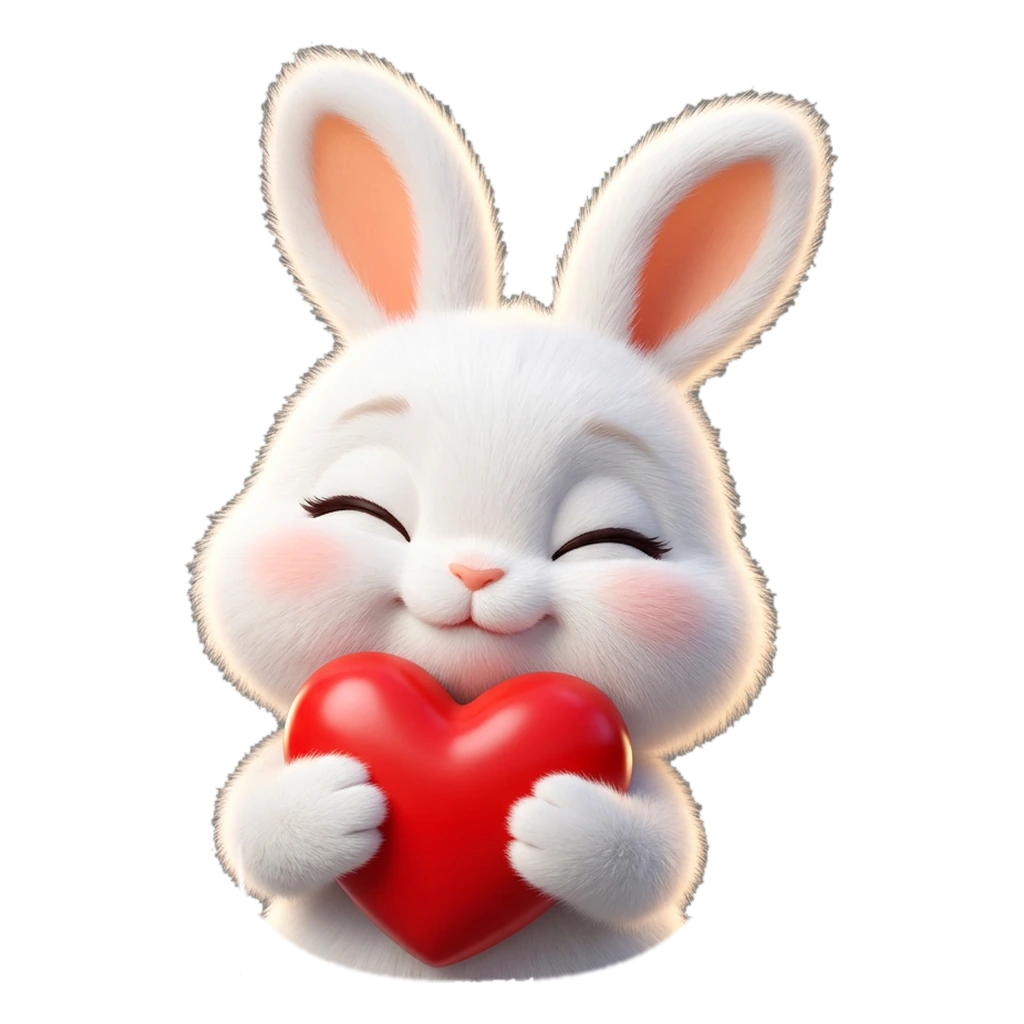
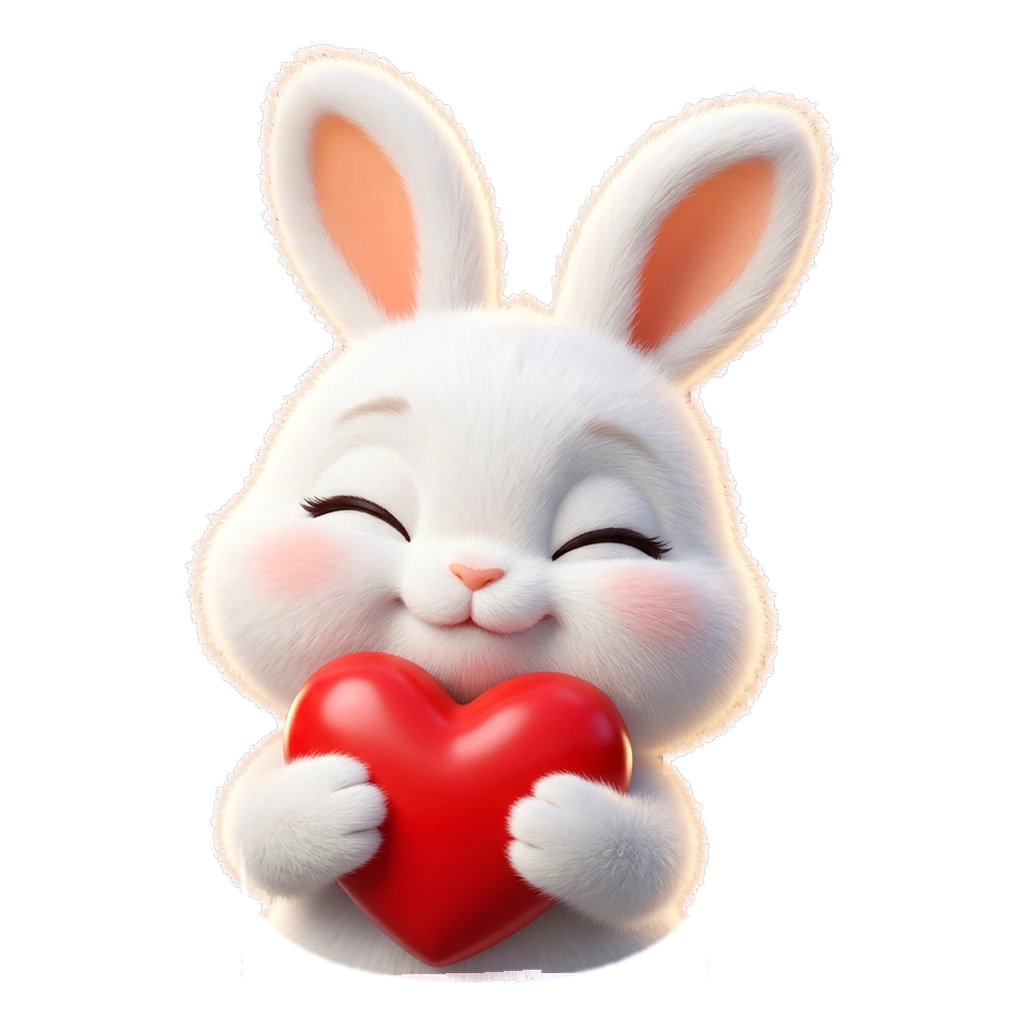
Sticker cutouts: unmix the grey background from fur edges
Claude-Session: https://claude.ai/code/session_01L59bBD8ePS3QixP9jH1RwP

diff --git a/charmbit/scripts/add-sticker.py b/charmbit/scripts/add-sticker.py
@@ -59,10 +59,37 @@ def remove_background(image: Image.Image, tolerance: int = TOLERANCE) -> Image.I
     background = ImageChops.multiply(ImageChops.multiply(red.point(lambda v: 255 if v == 255 else 0), green.point(lambda v: 255 if v == 0 else 0)), blue.point(lambda v: 255 if v == 255 else 0))
     alpha = ImageChops.invert(background)
     # Pull the edge in by a pixel to drop the background-tinted fringe, then soften it.
-    alpha = alpha.filter(ImageFilter.MinFilter(3)).filter(ImageFilter.GaussianBlur(0.8))
+    alpha = alpha.filter(ImageFilter.MinFilter(3))
     result = rgb.convert("RGBA")
-    result.putalpha(alpha)
-    return result
+    result.putalpha(alpha.filter(ImageFilter.GaussianBlur(0.8)))
+    return unmix_edge(result, alpha, key)
+
+
+def unmix_edge(image: Image.Image, solid: Image.Image, key: tuple[int, int, int]) -> Image.Image:
+    """
+    Fur and hair end in strands that are half background, which shows as a grey
+    rim on a light page. In a thin band along the outline, work out how much of
+    each pixel is background, make that part transparent, and take the
+    background colour back out of what is left. Needs NumPy; skipped without it.
+    """
+    try:
+        import numpy
+    except ImportError:
+        return image
+    band = numpy.asarray(solid) > 0
+    band &= ~(numpy.asarray(solid.filter(ImageFilter.MinFilter(15))) > 0)
+    pixels = numpy.asarray(image).astype("float32")
+    colour, alpha = pixels[..., :3], pixels[..., 3] / 255
+    back = numpy.array(key, dtype="float32")
+    # How far each pixel is from the background colour, against the brightest nearby colour.
+    away = numpy.abs(colour - back).max(axis=2)
+    full = max(60.0, float(numpy.percentile(away[band], 85))) if band.any() else 255.0
+    cover = numpy.clip(away / full, 0, 1)
+    cover = numpy.where(band, cover, 1.0)
+    clean = (colour - (1 - cover[..., None]) * back) / numpy.maximum(cover[..., None], 0.05)
+    colour = numpy.where(band[..., None], numpy.clip(clean, 0, 255), colour)
+    out = numpy.dstack([colour, numpy.clip(alpha * cover, 0, 1) * 255]).astype("uint8")
+    return Image.fromarray(out, "RGBA")
 
 
 def shave(image: Image.Image, pixels: int) -> Image.Image:
